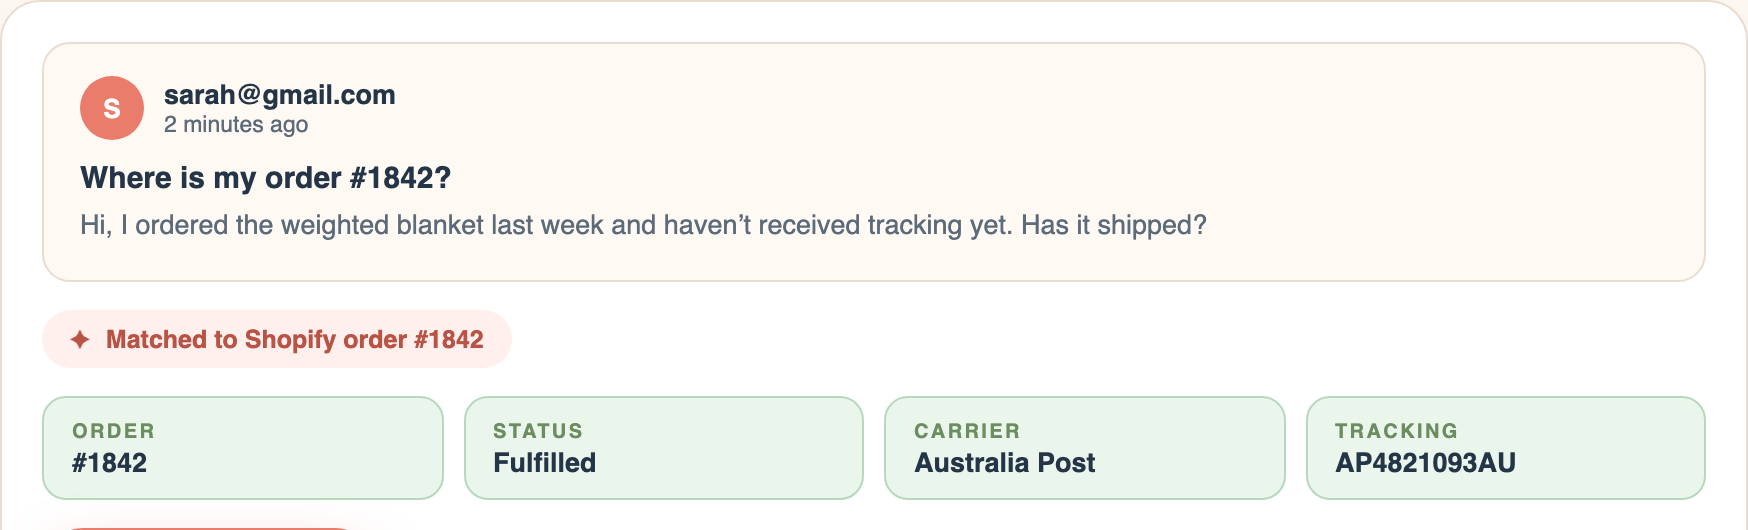
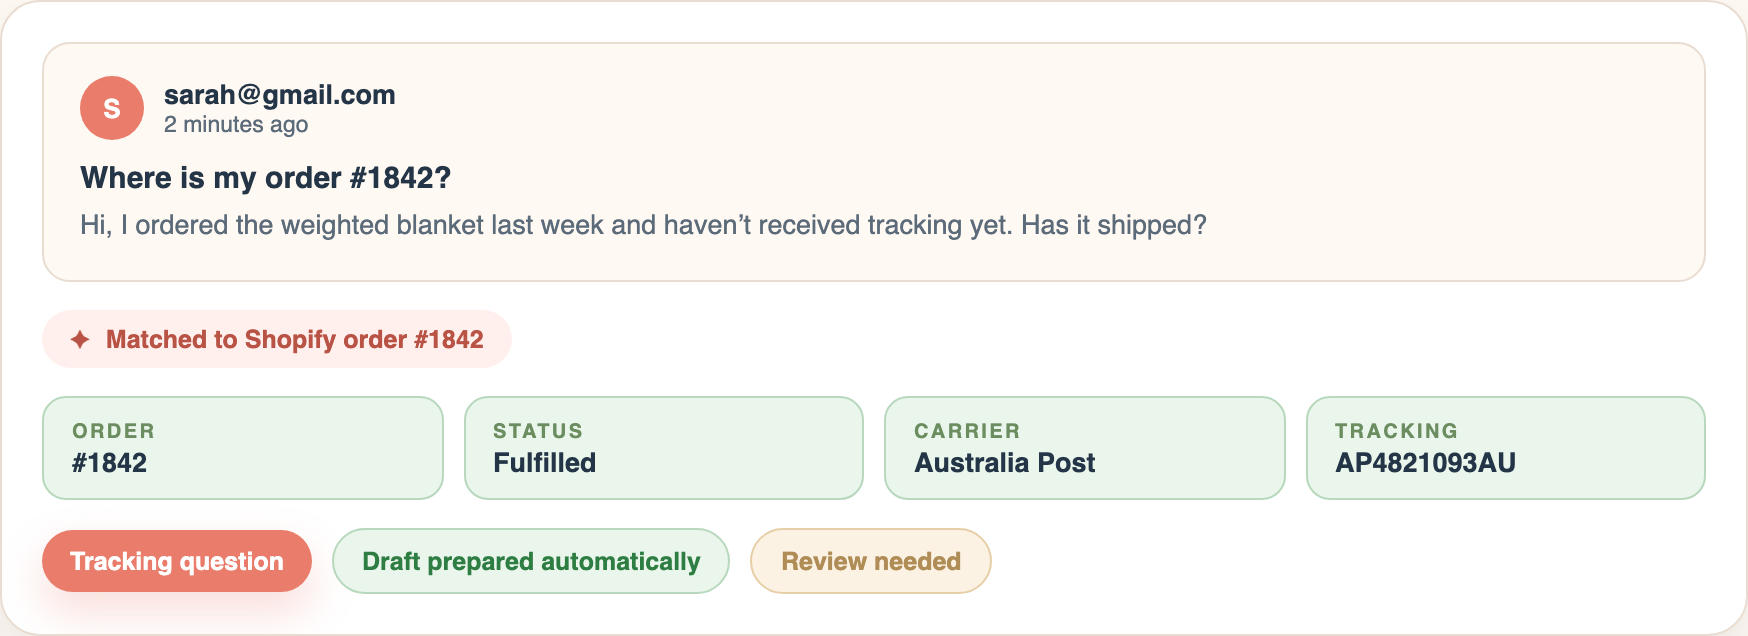
Add auto-draft status pills to step 2

diff --git a/media-src/hero-loop/step-base.html b/media-src/hero-loop/step-base.html
@@ -189,21 +189,34 @@
 
   /* Auto-draft status row */
   .suggestwrap {
-    display: flex; align-items: center; gap: 12px;
+    display: flex; align-items: center; flex-wrap: wrap; gap: 10px;
     opacity:1;
     opacity:1;
   }
   .suggestbtn {
     display: inline-flex; align-items: center; gap: 9px;
-    font-size: 15px; font-weight: 800; color: #fff;
+    font-size: 12.5px; font-weight: 800; color: #fff;
     background: var(--coral);
     border-radius: 999px;
-    padding: 12px 26px;
-    box-shadow: 0 12px 28px rgba(233,124,107,0.35);
+    padding: 8px 14px;
+    box-shadow: 0 10px 22px rgba(233,124,107,0.25);
     opacity:1;
   }
   .suggesthint {
-    font-size: 13px; font-weight: 700; color: var(--slate);
+    display: inline-flex; align-items: center;
+    font-size: 12.5px; font-weight: 800; color: var(--green);
+    background: var(--green-soft);
+    border: 1px solid var(--green-line);
+    border-radius: 999px;
+    padding: 8px 14px;
+  }
+  .reviewhint {
+    display: inline-flex; align-items: center;
+    font-size: 12.5px; font-weight: 800; color: var(--brass);
+    background: #FBF2E3;
+    border: 1px solid #E6CFA6;
+    border-radius: 999px;
+    padding: 8px 14px;
   }
   .cursor {
     position: absolute;
@@ -390,8 +403,9 @@
         </div>
 
         <div class="suggestwrap" style="position:relative;">
-          <span class="suggestbtn">✦ AI draft ready</span>
-          <span class="suggesthint">Prepared from Shopify context — you review before sending</span>
+          <span class="suggestbtn">Tracking question</span>
+          <span class="suggesthint">Draft prepared automatically</span>
+          <span class="reviewhint">Review needed</span>
           <svg style="display:none" class="cursor" viewBox="0 0 24 24" fill="#233547" stroke="#fff" stroke-width="1.5"><path d="M5 3l14 8-6.5 1.5L9 19z"/></svg>
         </div>
 

diff --git a/src/lib/i18n/home/en.ts b/src/lib/i18n/home/en.ts
@@ -67,7 +67,7 @@ export const enHomeCopy = {
         alt:
           "A customer email asking where their order is, automatically matched to Shopify order 1842 with fulfillment status, carrier, and tracking number",
         width: 1748,
-        height: 530,
+        height: 636,
       },
       {
         number: "03",